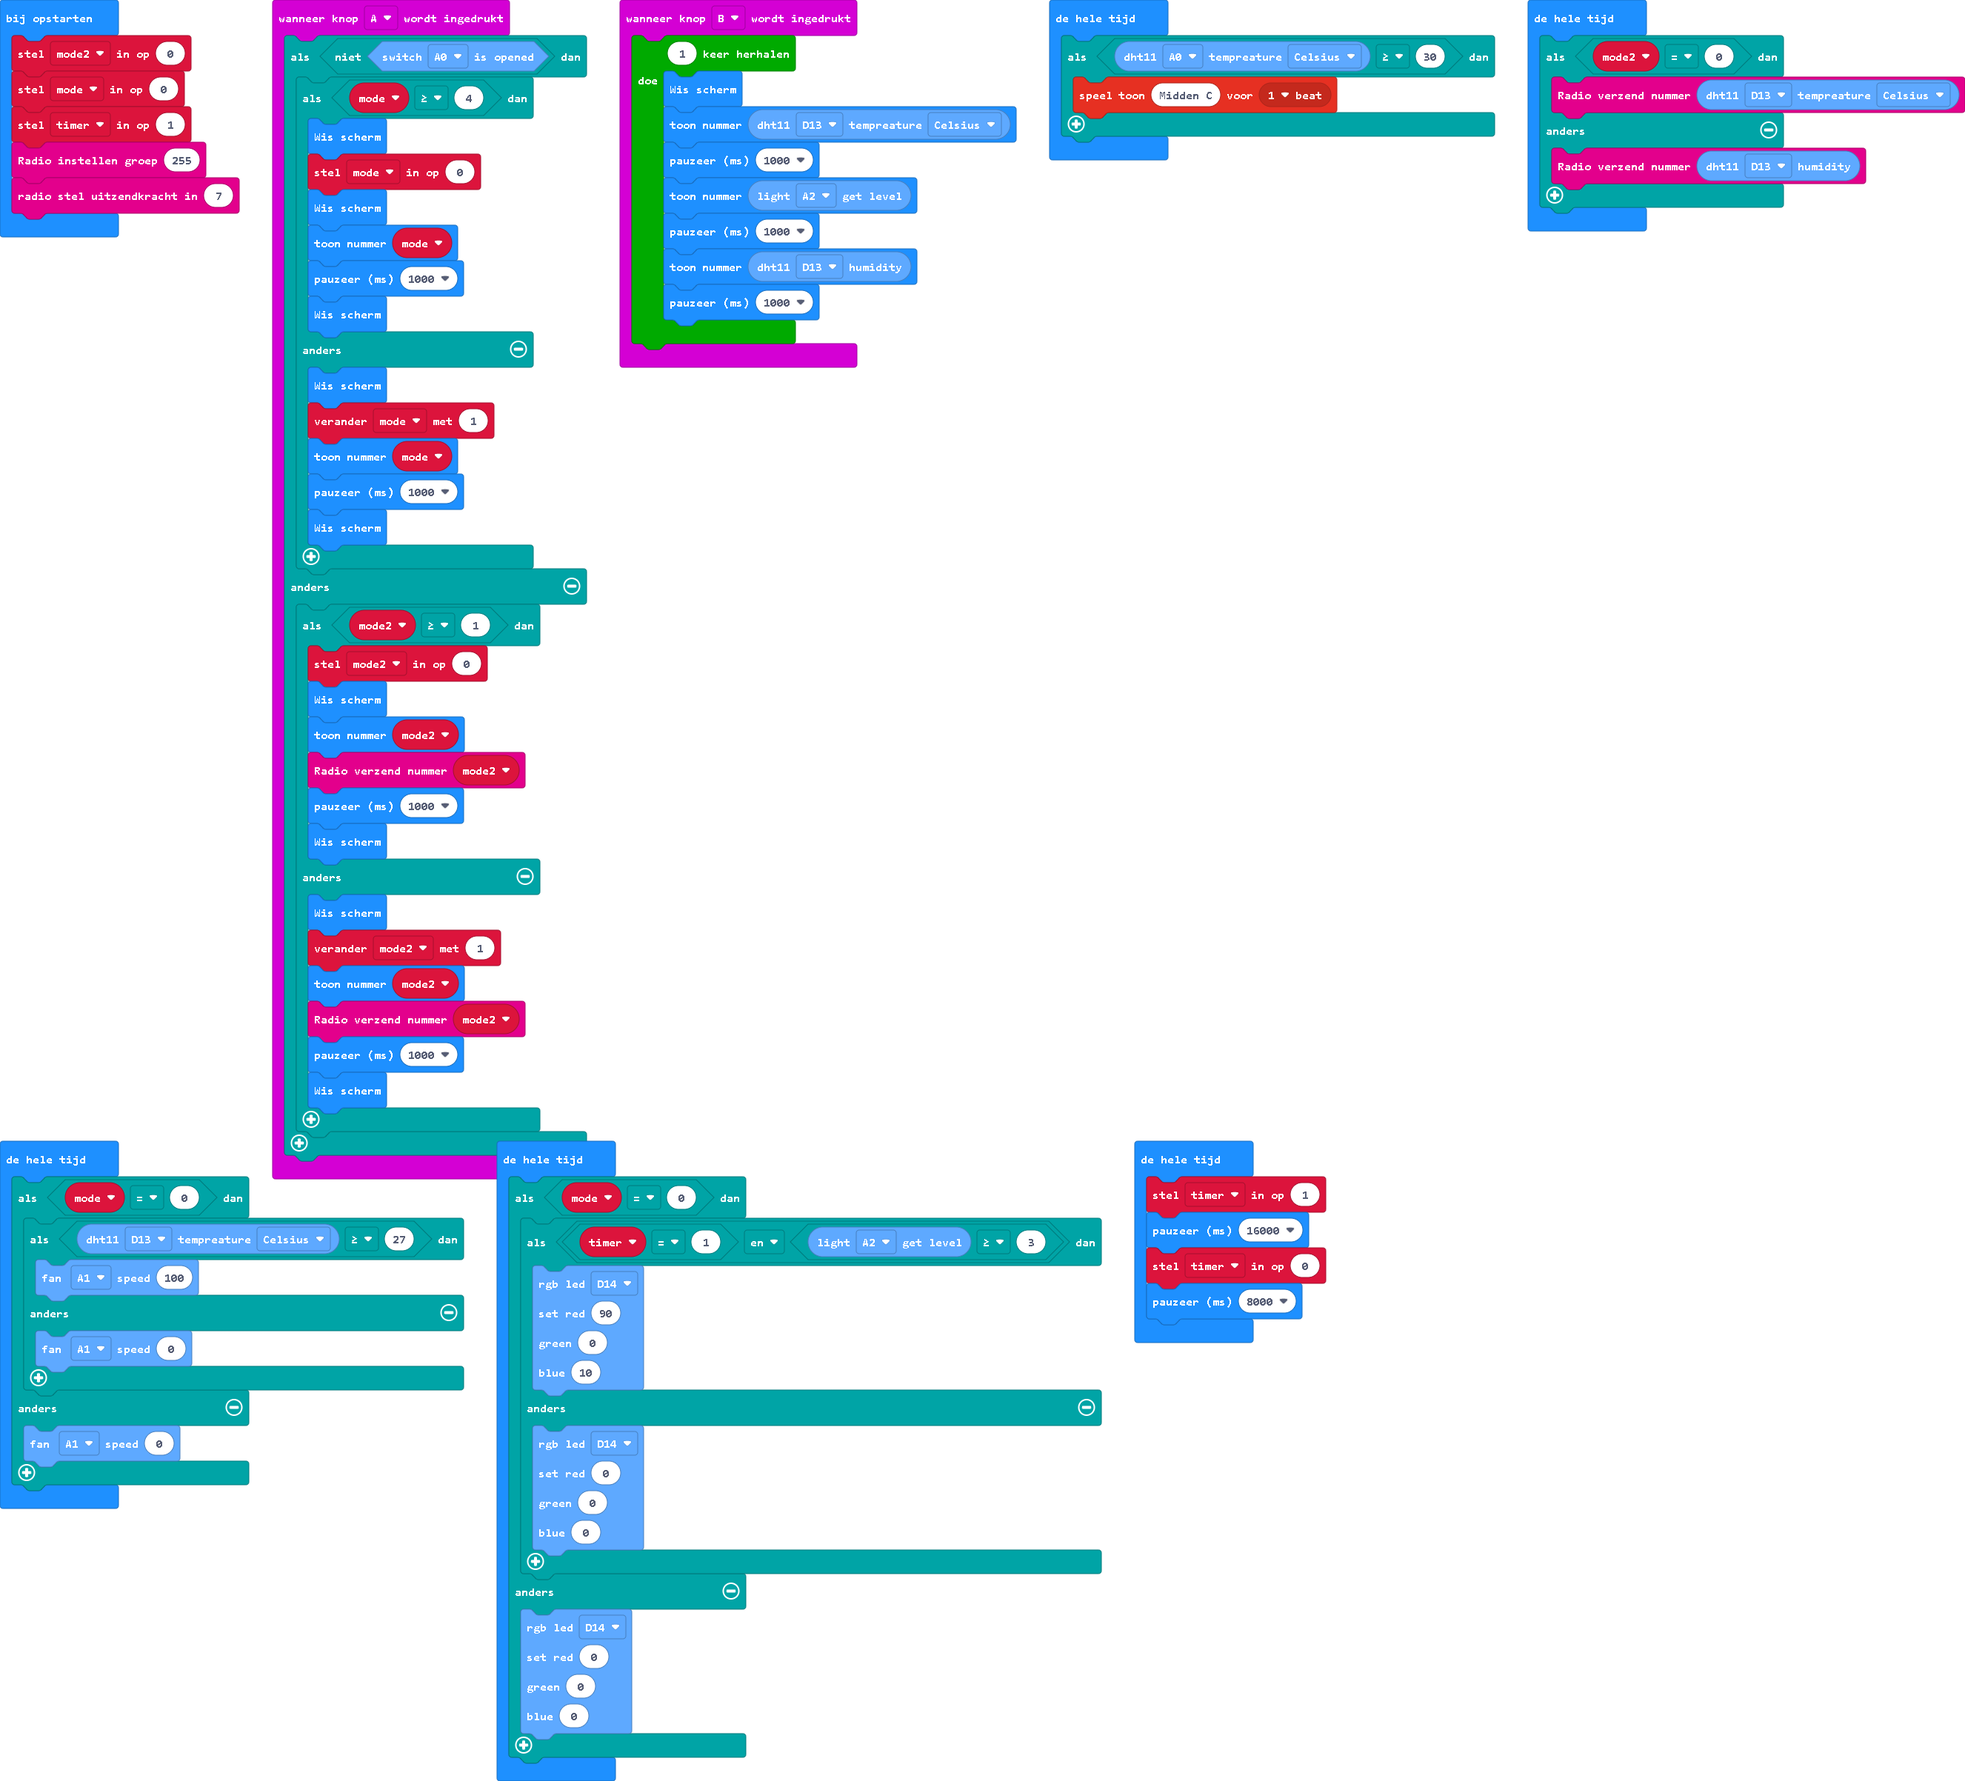
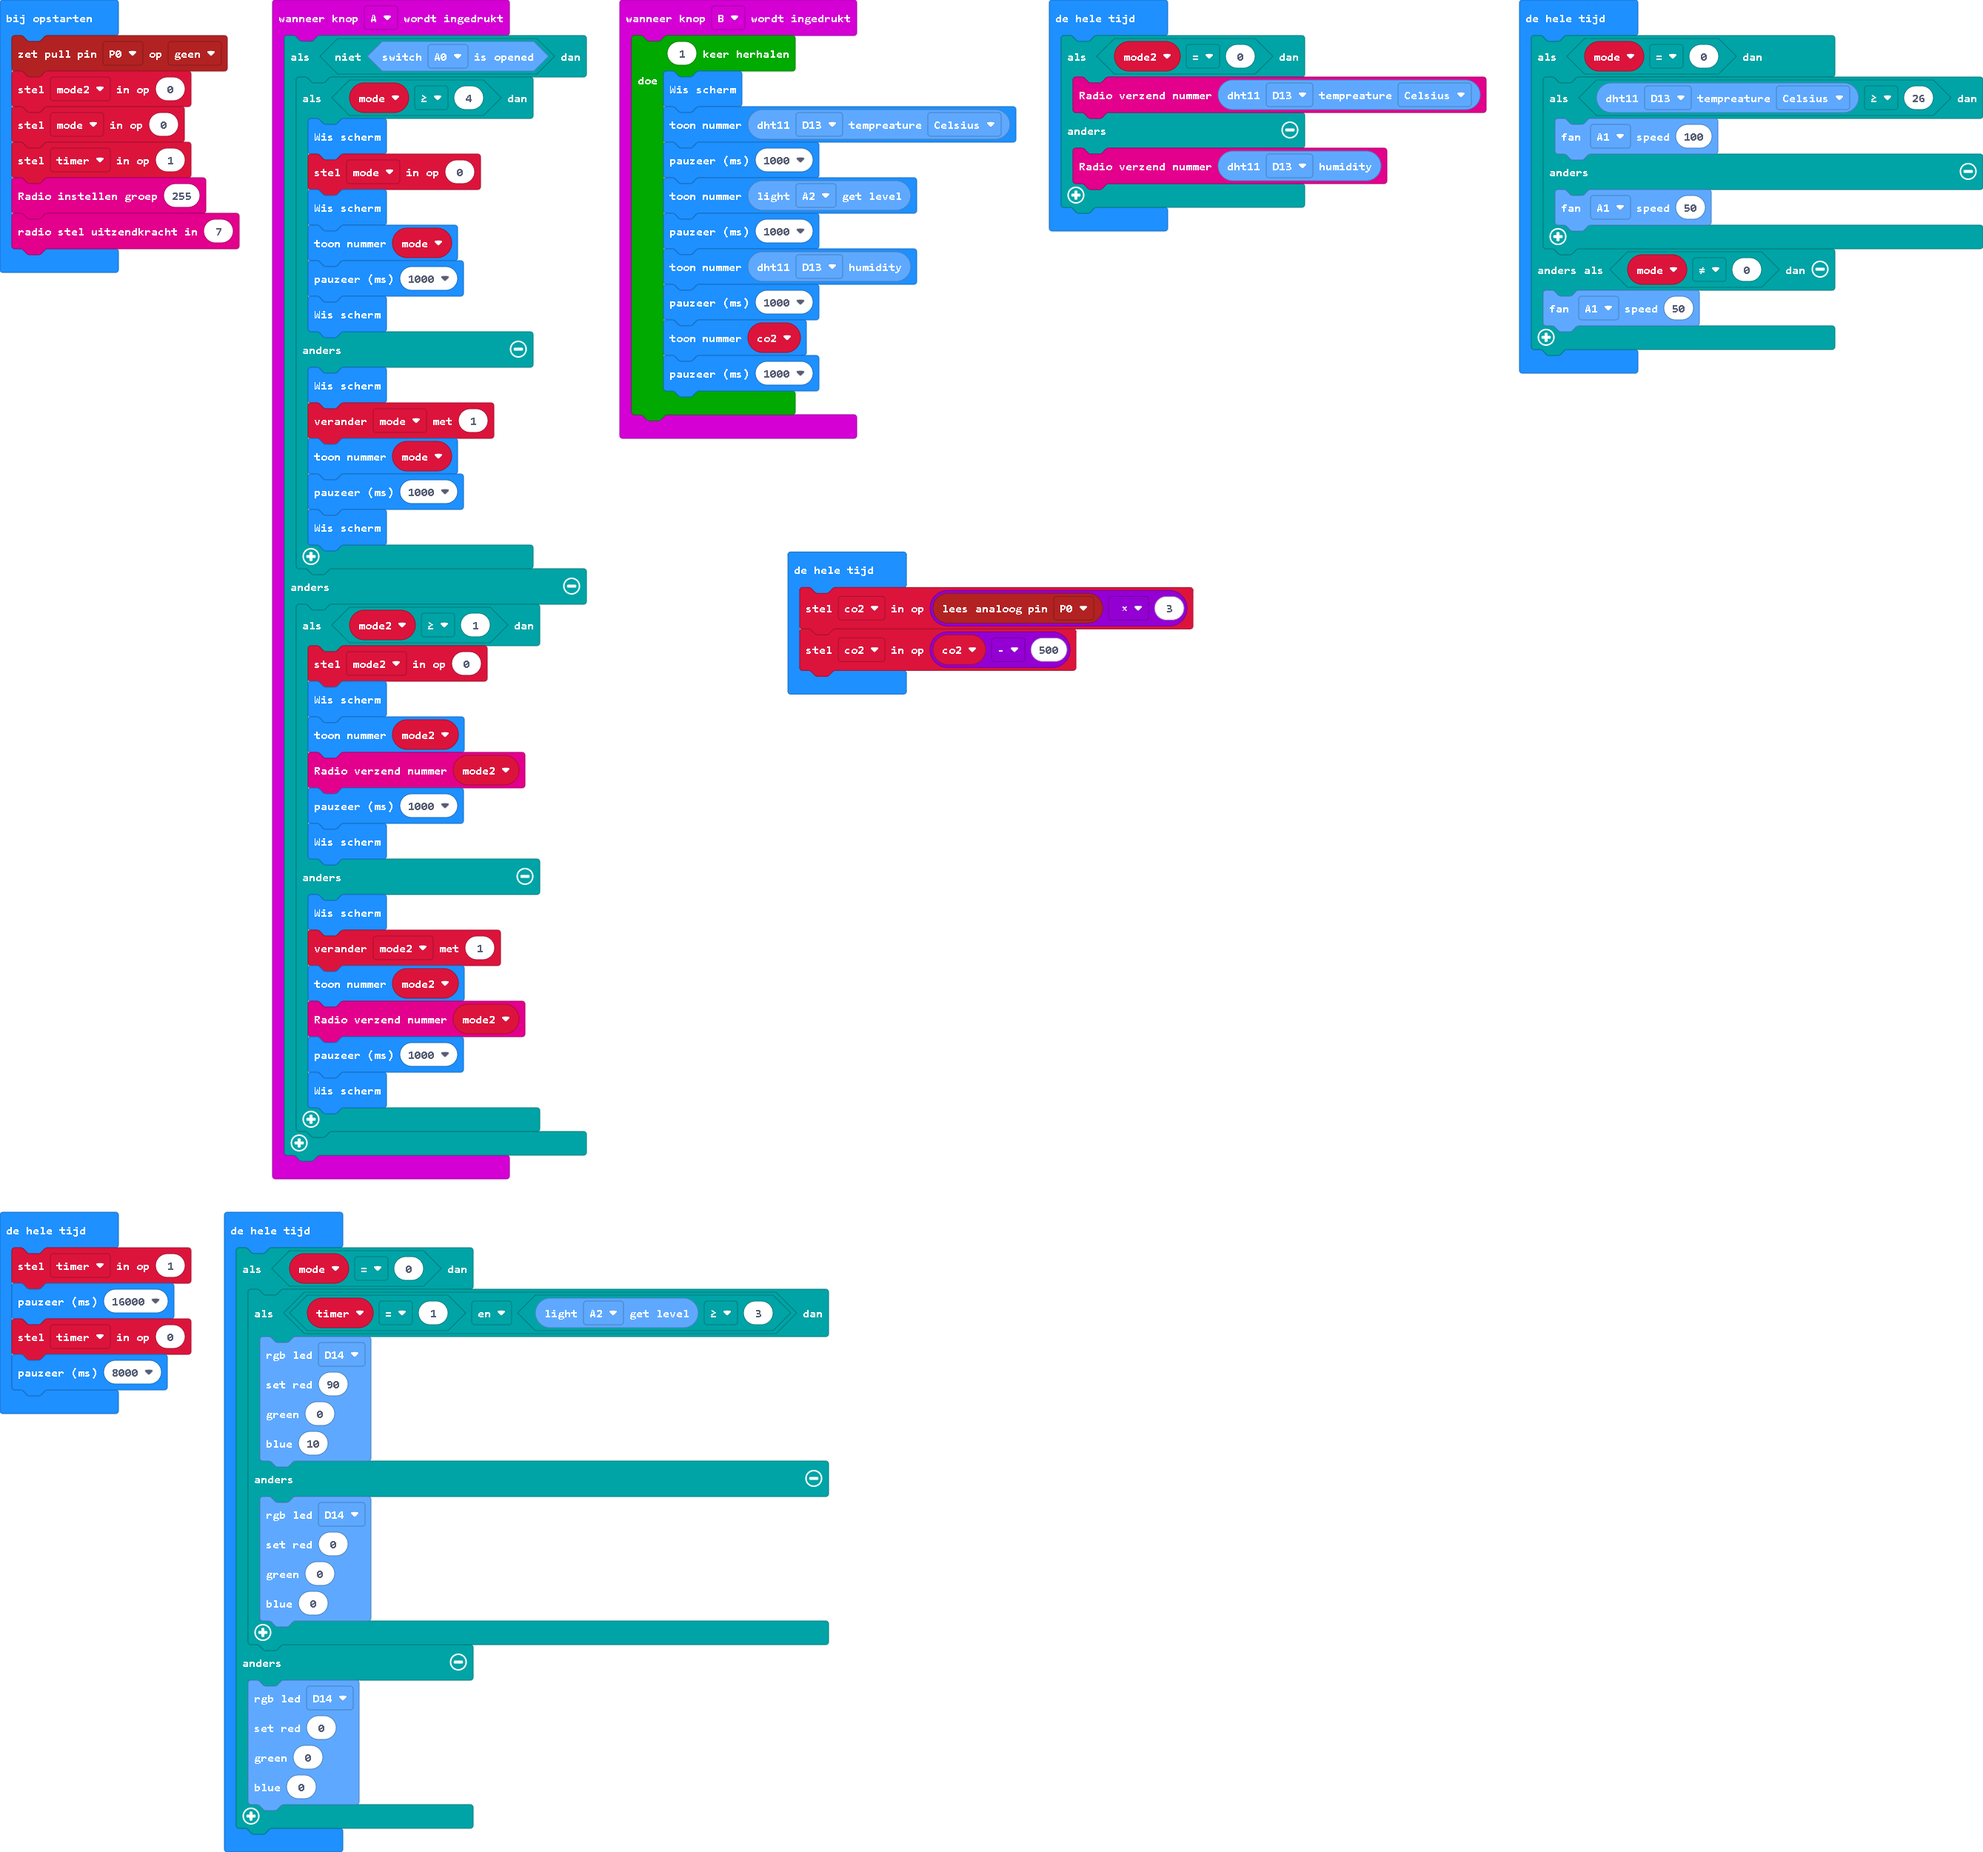
main.blocks, main.ts bijwerken

Changed region(s): [[0.0, 0.0, 1.0, 1.0], [0.3709, 0.2807, 0.6182, 0.3742]]

diff --git a/main.ts b/main.ts
@@ -41,20 +41,19 @@ input.onButtonPressed(Button.B, function () {
         basic.pause(1000)
         basic.showNumber(minode.DHTGetHumidity(ConnName.D13))
         basic.pause(1000)
+        basic.showNumber(co2)
+        basic.pause(1000)
     }
 })
+let co2 = 0
 let mode = 0
 let mode2 = 0
+pins.setPull(DigitalPin.P0, PinPullMode.PullNone)
 mode2 = 0
 mode = 0
 let timer = 1
 radio.setGroup(255)
 radio.setTransmitPower(7)
-basic.forever(function () {
-    if (minode.DHTGetTemperature(ConnName.A0, DHTTemStyle.MINODE_DHT_CELSIUS) >= 30) {
-        music.playTone(262, music.beat(BeatFraction.Whole))
-    }
-})
 basic.forever(function () {
     if (mode2 == 0) {
         radio.sendNumber(minode.DHTGetTemperature(ConnName.D13, DHTTemStyle.MINODE_DHT_CELSIUS))
@@ -64,14 +63,24 @@ basic.forever(function () {
 })
 basic.forever(function () {
     if (mode == 0) {
-        if (minode.DHTGetTemperature(ConnName.D13, DHTTemStyle.MINODE_DHT_CELSIUS) >= 27) {
+        if (minode.DHTGetTemperature(ConnName.D13, DHTTemStyle.MINODE_DHT_CELSIUS) >= 26) {
             minode.FanControl_1(AnalogConnName.Analog_A1, 100)
         } else {
-            minode.FanControl_1(AnalogConnName.Analog_A1, 0)
+            minode.FanControl_1(AnalogConnName.Analog_A1, 50)
         }
-    } else {
-        minode.FanControl_1(AnalogConnName.Analog_A1, 0)
+    } else if (mode != 0) {
+        minode.FanControl_1(AnalogConnName.Analog_A1, 50)
     }
+})
+basic.forever(function () {
+    co2 = pins.analogReadPin(AnalogPin.P0) * 3
+    co2 = co2 - 500
+})
+basic.forever(function () {
+    timer = 1
+    basic.pause(16000)
+    timer = 0
+    basic.pause(8000)
 })
 basic.forever(function () {
     if (mode == 0) {
@@ -98,10 +107,4 @@ basic.forever(function () {
         0
         )
     }
-})
-basic.forever(function () {
-    timer = 1
-    basic.pause(16000)
-    timer = 0
-    basic.pause(8000)
 })
